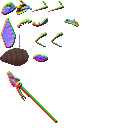
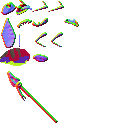
Teeth and Cars

Changed region(s): [[0.0, 0.375, 0.25, 0.5312]]

diff --git a/scripts/map/Shettle.cs b/scripts/map/Shettle.cs
@@ -3,25 +3,35 @@ using System;
 
 public partial class Shettle : StaticBody2D
 {
-	[Export] private Timer blink, energyfall;
+	[Export] private AnimationPlayer anum;
 	[Export] private PointLight2D blinkLight, energyfallLight;
+	private Area2D seba;
 	public override void _Ready()
 	{
-		blink.Timeout += BlinkOnTimeout;
-		energyfall.Timeout += EnergyfallOnTimeout;
+		seba = GetNode<Area2D>("Shop");
+		anum.Play("infiniBlink");
+
+		seba.BodyEntered += OnPLayerEntered;
+		seba.BodyExited  += OnPlayerExited;
 	}
 
-	private float currentEnergy = 0, currentTime = 0, maxEnergy = 2, minEnergy = 0.8f;
-	private void EnergyfallOnTimeout()
+	void OnPLayerEntered(Node body)
 	{
-		throw new NotImplementedException();
+		if (body is not Player pl) return;
+		
+		PlayerEntered = true;
 	}
 
-	private void BlinkOnTimeout()
+	void OnPlayerExited(Node body)
 	{
-		throw new NotImplementedException();
+		if (body is not Player pl) return;
+		
+		PlayerEntered = false;
 	}
+	
+	bool PlayerEntered = false;
 
+	
 
 	public override void _Process(double delta)
 	{

diff --git a/scripts/units/AiBehavior.cs b/scripts/units/AiBehavior.cs
@@ -83,7 +83,7 @@ public partial class AiBehavior : Node2D
 			return;
 		}
 		
-		if (player.GlobalPosition.DistanceSquaredTo(GlobalPosition) <= 40000 + Escalation * Escalation * 2500) {
+		if (player.GlobalPosition.DistanceSquaredTo(GlobalPosition) <= float.Pow(200 + 25 * Escalation, 2)) {
 			EmitSignal(nameof(ChangeBehavior), 1);
 			foreach (var weapon in weapons)
 				weapon.RequestAttack(( player.GlobalPosition - GlobalPosition).Angle());

diff --git a/scripts/service/AnimationExecuter.cs b/scripts/service/AnimationExecuter.cs
@@ -1,0 +1,15 @@
+using Godot;
+using System;
+
+public partial class AnimationExecuter : Node
+{
+	// Called when the node enters the scene tree for the first time.
+	public override void _Ready()
+	{
+	}
+
+	// Called every frame. 'delta' is the elapsed time since the previous frame.
+	public override void _Process(double delta)
+	{
+	}
+}
